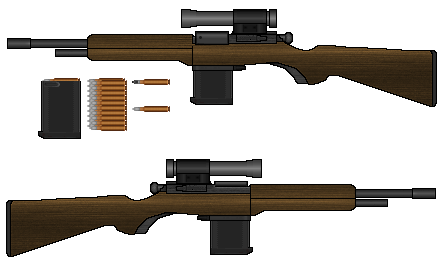
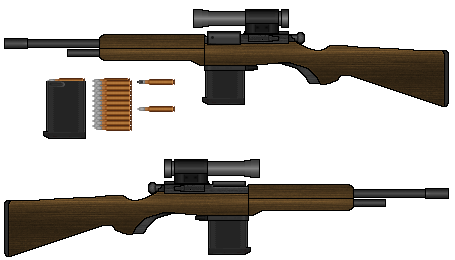
Add files via upload

diff --git a/WIM_AM_Arms.html b/WIM_AM_Arms.html
@@ -386,7 +386,7 @@ function includeHTML() {
 </TR>
 <TR>
 	<TD style="width:175px; color:#EFEFEF; font-size:16px; font-family:Courier;"><b>BARREL LENGTH:</TD>
-	<TD style="width:450px; color:#F0F0F0; font-size:14px; font-family:Courier;">420mm/16.5 inches</TD>
+	<TD style="width:450px; color:#F0F0F0; font-size:14px; font-family:Courier;">370mm/14.56 inches</TD>
 </TR>
 <TR>
 	<TD style="width:175px; color:#EFEFEF; font-size:16px; font-family:Courier;"><b>OVERALL LENGTH:</TD>
@@ -443,7 +443,7 @@ function includeHTML() {
 </TR>
 <TR>
 	<TD style="width:175px; color:#EFEFEF; font-size:16px; font-family:Courier;"><b>OVERALL LENGTH:</TD>
-	<TD style="width:450px; color:#F0F0F0; font-size:14px; font-family:Courier;">820mm/32.28 inches</TD>
+	<TD style="width:450px; color:#F0F0F0; font-size:14px; font-family:Courier;">870mm/34.25 inches</TD>
 </TR>
 <TR>
 	<TD style="width:175px; color:#EFEFEF; font-size:16px; font-family:Courier;"><b>OVERALL HEIGHT:</TD>
@@ -494,11 +494,11 @@ function includeHTML() {
 </TR>
 <TR>
 	<TD style="width:175px; color:#EFEFEF; font-size:16px; font-family:Courier;"><b>BARREL LENGTH:</TD>
-	<TD style="width:450px; color:#F0F0F0; font-size:14px; font-family:Courier;">420mm/16.5 inches</TD>
+	<TD style="width:450px; color:#F0F0F0; font-size:14px; font-family:Courier;">400mm/15.75 inches</TD>
 </TR>
 <TR>
 	<TD style="width:175px; color:#EFEFEF; font-size:16px; font-family:Courier;"><b>OVERALL LENGTH:</TD>
-	<TD style="width:450px; color:#F0F0F0; font-size:14px; font-family:Courier;">820mm/32.28 inches</TD>
+	<TD style="width:450px; color:#F0F0F0; font-size:14px; font-family:Courier;">890mm/35 inches</TD>
 </TR>
 <TR>
 	<TD style="width:175px; color:#EFEFEF; font-size:16px; font-family:Courier;"><b>OVERALL HEIGHT:</TD>
@@ -563,7 +563,7 @@ function includeHTML() {
 <TR>
 </TR>
 <TR>
-	<TD width=1325 colspan=6><center><table width=1310><TR><TD>Unlike other NEIGHTO powers, Ambleion's armed forces decided that a magazine-fed solution to the machine gun problem was preferable, especially after running the numbers on how much the NEIGHTO non-disintigrating metal linked belt would cost to produce, and how easily it could be damaged and lost. For roughly the same price, and greater usability, a flat pan magazine could be produced instead, which would also take advantage of clockmaker facilities in the country. The unique pan magazine of the Lewis comes in 48 and 96 round capacities, and fires at 720 rounds per minute, giving it roughly the same volume of fire as an Abrams or similar medium machine gun. The barrel cooling jacket is not strictly required, though highly advised when in static positions or in high ambient heat environments, to prevent barrel overheating. The jacket itself uses a forced air principle and is, in fact, so effective, that no barrel changes are required, even with sustained automatic fire. </TD></TR></Table></TD>
+	<TD width=1325 colspan=6><center><table width=1310><TR><TD>Unlike other NEIGHTO powers, Ambleion's armed forces decided that a magazine-fed solution to the machine gun problem was preferable, especially after running the numbers on how much the NEIGHTO non-disintigrating metal linked belt would cost to produce, and how easily it could be damaged and lost. For roughly the same price, and greater usability, a flat pan magazine could be produced instead, which would also take advantage of clockmaker facilities in the country. The unique pan magazine of the Lewis comes in 48 and 96 round capacities, and fires at 720 rounds per minute, giving it roughly the same volume of fire as an Abrams or similar medium machine gun. The barrel cooling jacket is not strictly required, though highly advised when in static positions or in high ambient heat environments, to prevent barrel overheating. The jacket itself uses a forced air principle and is, in fact, so effective, that no barrel changes are required, even with sustained automatic fire. The Neigtherlands came to a similar conclusion for a sustained fire weapon, impemented slightly differently.</TD></TR></Table></TD>
 </TR>
 </Table>
 
